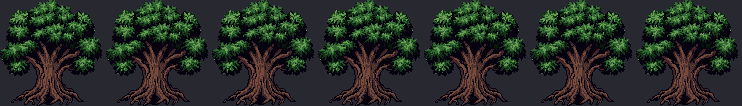
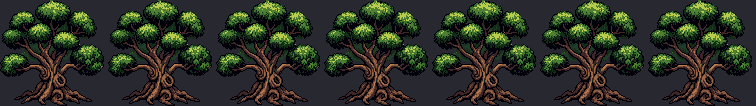
Ato 1, passe diorama: seis arvores dos campos com copa em planos e luz do sol
As seis fields_tree_* foram regeradas no PixelLab (create_image_pro, sprite do slot
como estilo) pela regra de art_direction_diorama: copa em tres planos, tufos de
tamanho e valor diferentes, folhas cobrindo galhos e tronco, tronco e raizes com
face de luz. O modelo pinta a luz a esquerda: cinco PNGs espelhados e lit = 1 para
o sol a direita dos campos. Plano de fundo cinza das copas virou verde escuro e o
destaque lima foi baixado. Sink refeito pela razao raiz/tronco.

Disco de sombra de copa dos campos 0,55/0,42 para 0,20/0,32: lia como manchas
redondas soltas na grama. Animacao de folhas refeita com o mesmo pipeline
(pixellab_tree_anims, portao IoU 0,97 e tronco 0,95): passaram fields_tree_0 e _2;
as outras ficam com o balanco e test_tree_anim exige ao menos 2.

Prova e checklist em tools/preview_out/diorama_ato1/.

diff --git a/tools/preview_out/diorama_ato1/checklist.md b/tools/preview_out/diorama_ato1/checklist.md
@@ -1,0 +1,65 @@
+# Diorama do ato 1 (fields): checklist
+
+Regra: `memory/art_direction_diorama.md`. Luz do bioma: sol à direita e alto (`celestial.xr = 0.79`).
+Ferramenta única da família: PixelLab `create_image_pro` (style image = sprite atual do slot, prompt em inglês com
+cada item da regra e a direção do sol). Animação: `animate_image` via `tools/pixellab_tree_anims.py` (mesma do
+front arvores-anim, 6 quadros, portão IoU 0,97 / tronco 0,95, transferência só do delta).
+
+Arquivos: `antes/` e `depois/` (batalha 1080p tod 0,65 e 0,95, `grade/` com as 12 do bioma 1), `recortes/`
+(antes|depois 1x e 2x), `arvores_antes_depois_{1x,4x}.png`, `objetos_antes_depois_{1x,4x}.png`, `folhas/`
+(todas as candidatas: `*_grade.png`, `tree*_a_*`, `hi*_sheet.png`).
+
+## Árvores (candidata escolhida → slot)
+
+| slot | silhueta | candidata | 3 planos | grupos de tamanho/valor diferentes | folha cobre galho/tronco | sombra pontilhada no tronco | contorno seletivo | tronco/raiz com face de luz e sombra | paleta e escala |
+|---|---|---|---|---|---|---|---|---|---|
+| tree_0 | redonda, raízes enroscadas | tree0_a__02 | sim (fundo escuro no miolo, meio, frente com topo claro) | sim | sim | parcial (escurece sob a copa, pouco pontilhado) | sim | parcial (tronco neutro, raízes com luz) | sim, 104x106 |
+| tree_1 | larga e baixa | tree1_a__02 (espelhada) | sim | sim, massas soltas nas pontas | sim | parcial | sim | sim, face clara à direita após espelho | sim, 105x100 |
+| tree_2 | copa com vãos (tufos em galhos) | tree0_a__03 (espelhada) | sim, plano de fundo atrás dos tufos | sim, tufos redondos de tamanhos diferentes | sim | sim | sim | sim | sim |
+| tree_3 | inclinada | tree0_a__01 (espelhada) | sim | sim | sim | sim | sim | sim, melhor tronco da família | sim, 97x106 |
+| tree_4 | alta bifurcada | tree4_b__01 (espelhada, tronco recolorido para a paleta da família) | sim, copa empilhada | sim | sim | parcial | sim | sim, mas tronco fino (7 px) | sim, 54x107 |
+| tree_5 | em patamares | tree5_a__00 (verdes escurecidos 0,82 e plano de fundo cinza → verde) | sim, patamares em alturas diferentes + massa de fundo | sim | sim | parcial | sim | sim | sim, 104x91 |
+
+Pós-processo comum: o plano de fundo vinha em verde acinzentado (#26372e, #1a231f, #1d2527) e lia como névoa colada
+dentro da copa: virou verde escuro. Destaque lima (#bacc4e, #88a041) baixado para #9cb44c / #74923c depois da
+captura de dia (copa perto roubava o olho, alerta do lead). Medido (folhas, L médio): 0,25 a 0,30 em todas
+(antes 0,24 a 0,34), croma 0,19 a 0,21. Lado iluminado medido (pixels altos dir > esq e tronco dir > esq):
+1 a 5 com `lit = 1`, a 0 é neutra (sem `lit`).
+
+## Objetos
+
+| sprite | candidata | volume | luz à direita | contato/base | veredito |
+|---|---|---|---|---|---|
+| bush_0 | bush_a__08 | tufos sobrepostos, fundo escuro à esquerda, frente clara | sim (`lit = 1` mantido) | caules na base | trocado |
+| rock_0 | rock_a__24, espelhada | bloco com face de luz e face escura, musgo no topo, pedra menor na frente | sim após espelho | base reta | trocado |
+| stump_0 | stump_a__00 | cilindro com face clara à direita, corte visto de cima, raízes com face de luz | sim | raízes | trocado (versão limpa do antigo, sem os pixels rosa) |
+| shrine_0 | shrine_a__00 | caixa vista de 3/4, face lateral e telhado com duas águas | parcial (telhado direito claro) | poste com flores, sem o monte de terra assado | trocado; chama achada pelo scan (0,42 / 0,47); `anim/` refeito (9 quadros iguais, como antes) |
+| flowers_0 | flowers_b__25 (2a rodada sem referência) | 3 planos: lâminas escuras atrás, folhas, flores amarelas na frente | n/a | sem o remendo de terra (a 1a rodada copiou a terra assada da referência em todas as 49) | trocado |
+| lantern_0 | lantern_a__03 avaliada | poste de 7 px com duas faces | luz pintada à ESQUERDA | n/a | REJEITADA: no quadro 1080p virava uma viga laranja com lanterna enorme; mantido o poste antigo |
+| landmarks / castelo | não regerados | já com volume (casa, tenda, castelo com torres) | | | fora deste passe; orçamento estourado |
+
+## As 9 lições do brief
+
+1. Sombra forte/de fundo pintando a frente: o disco de copa dos campos caiu de alpha 0,55/largura 0,42 para 0,20/0,32
+   (manchas redondas soltas na grama, alerta do lead); a sombra projetada pela silhueta segue igual. Ver
+   `recortes/sombras_grama_dir_tod065_1x.png`. Sim.
+2. Filtro branco: nenhuma árvore mais clara/enevoada que a grama vizinha; o `tree_depth` continua (crista com névoa,
+   `crista_castelo_tod095_2x.png`). Sim.
+3. Escala: mesmas alturas de canvas (100 a 107 px) e mesmo `sizeK`; `sink` refeito pela razão raiz/tronco das
+   antigas (12/9/11/11/8/9). Sim.
+4. Variedade: 6 silhuetas distintas mantidas; `makeWall` intocado. Sim.
+5. Lado iluminado para o sol: 5 de 6 árvores com `lit = 1` (o PixelLab desenhou luz à esquerda apesar do prompt;
+   espelhei o PNG). Sim.
+6. Luz da luminária: poste e oratório mantêm a âncora por conteúdo. Sim.
+7. Chão mais escuro lá na frente: intocado. Sim.
+8. Colagem: plano de fundo cinza das copas corrigido; flores sem terra assada; poste novo rejeitado por colagem. Sim.
+9. Olhei as capturas e os recortes antes de escrever cada linha acima. Sim.
+
+## Leitura honesta
+- As copas agora leem em tufos com vãos e tronco visível por trás (melhor no perto e no meio). O pixel do perto
+  continua grande: tentei canvas 160 (6 chamadas `create_image_pro` com a candidata como referência e uma com a
+  referência ampliada) e o modelo devolveu SEMPRE a árvore com os mesmos 104x106 px no meio do canvas (o style image
+  dita o tamanho). Fica com o limite de `c83a3a5f` (prop perto ≤ 2x o pixel do inimigo).
+- Animação: só `fields_tree_0` e `_2` passaram o portão (1, 3, 4 e 5 com IoU 0,92 a 0,945 em 2 a 3 tentativas cada);
+  as outras ficam com o balanço. `test_tree_anim` passou a exigir ao menos 2 (era 4).
+- O oratório novo é menor e mais escuro que o antigo; o poste continua o antigo (plano, 4 px).

diff --git a/memory/worldroad_scene.md b/memory/worldroad_scene.md
@@ -252,12 +252,22 @@ animação mínima feita pelo PixelLab... só para dar um efeito mais detalhado"
   quadro 0 gerado ao N), dentro da silhueta da base, fora do contorno de 1 px, fora dos 30 %
   inferiores (tronco), sem abrir furo, com paleta presa à da base. Portão: IoU cru ≥ 0,97,
   tronco ≥ 0,95 entre quadros gerados, e anim "viva" (≥ 0,8 % da área mexe).
-- Campos: animadas `fields_tree_0/1/2/4`. `fields_tree_3` e `_5` reprovaram 3 tentativas cada
+- Campos (árvores antigas, substituídas pelo diorama abaixo): animadas `fields_tree_0/1/2/4`. `fields_tree_3` e `_5` reprovaram 3 tentativas cada
   (o modelo deforma a copa/silhueta; com o último quadro pinado na base sai CONGELADO) e ficam
   só com o balanço. Outros biomas: quadros crus gerados em `tools/preview_out/arvores_anim/raw/`
   mas NÃO instalados (frentes de replicação vão revisar essas árvores antes). Pinheiros e
   árvores secas reprovaram em massa no 1º lote (IoU 0,86 a 0,93, tronco 0,74 a 0,90); só
   `abyss_deadtree_2` passou. Trava: `test_tree_anim`.
+- **Diorama do ato 1 (18/Out/2026, frente diorama-ato1, `tools/preview_out/diorama_ato1/checklist.md`):**
+  as seis `fields_tree_*`, `fields_bush_0/rock_0/stump_0/shrine_0/flowers_0` regeradas pela regra de
+  `memory/art_direction_diorama.md` com `create_image_pro` (style image = o sprite do slot; uma chamada já devolve
+  silhuetas diferentes, aproveitadas para outros slots). O PixelLab pinta luz à ESQUERDA mesmo pedindo sol à
+  direita: espelhar o PNG e dar `lit = 1`. O plano de fundo da copa vem verde ACINZENTADO (lê como névoa colada):
+  trocar por verde escuro. Canvas maior NÃO funciona com style image (o modelo devolve a árvore com o mesmo
+  tamanho em px no meio do canvas, 7 chamadas perdidas). Referência com terra assada é copiada em todas as
+  candidatas: gerar sem `reference_images`. Disco de copa dos campos 0,55/0,42 → 0,20/0,32 (manchas soltas).
+  Poste novo rejeitado (viga de 7 px e lanterna enorme no 1080p). Animação refeita: só `fields_tree_0` e `_2`
+  passaram o portão; `test_tree_anim` exige ao menos 2.
 
 **Escala humana do quadro de batalha (18/Out/2026, frente cenario-escala; entregas em
 `tools/preview_out/escala_humana/`: `medidas.md`, `checklist.md`, recortes antes|depois):**
